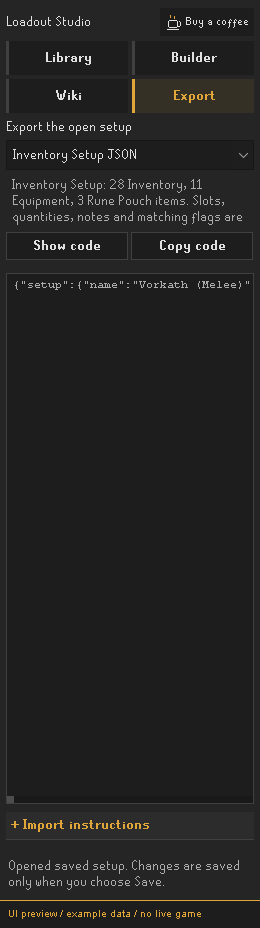
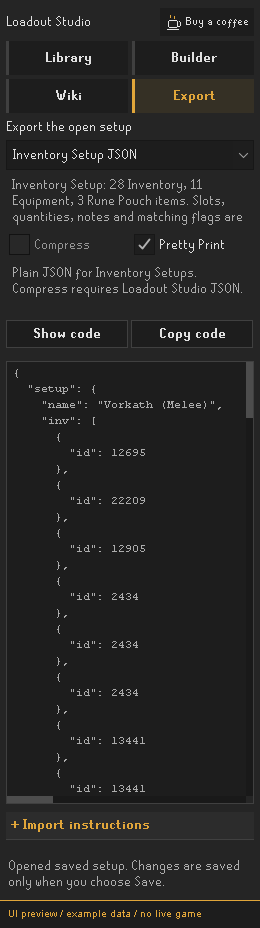
Add compatible pretty JSON and native compressed setup exports

diff --git a/src/main/java/com/loadoutstudio/StudioPanel.java b/src/main/java/com/loadoutstudio/StudioPanel.java
@@ -84,6 +84,7 @@ public final class StudioPanel extends PluginPanel
         default void chooseItem(Consumer<Integer> chosen, Consumer<String> error) { error.accept("Use the running RuneLite client for chatbox Item Search."); }
         default void enterQuantity(String initial, Consumer<String> chosen, Consumer<String> error) { error.accept("Use the running RuneLite client for chatbox quantity input."); }
         default void cancelItemInput() { }
+        default void copyText(String value){java.awt.Toolkit.getDefaultToolkit().getSystemClipboard().setContents(new StringSelection(value),null);}
 		String read(String scope);
 		void save(String scope, String text);
 		void capture(Consumer<JsonObject> success, Consumer<String> error);
@@ -140,7 +141,7 @@ public final class StudioPanel extends PluginPanel
 	private final JTextArea bankStatus = new JTextArea(3, 18);
 	private BankLayouts.Mode editorLayout = BankLayouts.Mode.PRESET;
 	private boolean editorBottom;
-	private final JComboBox<String> section = new JComboBox<>(), format = new JComboBox<>(new String[]{"Inventory Setup JSON", "Bank Tag (RuneLite)", "Bank Tag Layouts"});
+	private final JComboBox<String> section = new JComboBox<>(), format = new JComboBox<>(new String[]{"Inventory Setup JSON", "Bank Tag (RuneLite)", "Bank Tag Layouts", "Loadout Studio JSON"});
 	private final JTextArea notes = new GrowingNotesArea(), code = new JTextArea(9, 18), status = new JTextArea(3, 18);
 	private JButton exportCopy, exportPreview;
 	private final JLabel scopeLabel = text(""), draftLabel = text("No setup open");
@@ -169,6 +170,8 @@ public final class StudioPanel extends PluginPanel
     private JsonObject recovery;
     private final JPanel recoveryControls=vertical(), existingControls=vertical();
     private final JTextArea conversionNotice=info("",3);
+    private final JCheckBox exportCompress=new JCheckBox("Compress"),exportPretty=new JCheckBox("Pretty Print");
+    private final JTextArea exportOptionHint=new CompactStatusArea("");
     private String editingId, scope, session = UUID.randomUUID().toString();
 	private String editorSection;
 	private boolean editorFavorite;
@@ -192,7 +195,7 @@ public final class StudioPanel extends PluginPanel
 			@Override protected Insets getContentBorderInsets(int placement) { return new Insets(0, 0, 0, 0); }
 		});
 		tabs.addTab("Library", libraryTab()); tabs.addTab("Builder", builderTab()); tabs.addTab("Wiki", scroll(wikiTab())); tabs.addTab("Export", exportTab()); add(tabs, BorderLayout.CENTER);
-		JPanel heading = vertical(); JLabel title = text("Loadout Studio"); title.setName("studioTitle"); title.setToolTipText("Loadout Studio 0.8.3-test - character-specific setup library");
+		JPanel heading = vertical(); JLabel title = text("Loadout Studio"); title.setName("studioTitle"); title.setToolTipText("Loadout Studio 0.8.4-test - character-specific setup library");
         JButton coffee = button("Buy a coffee", () -> attempt(host::openSupportPage)); coffeeControl=coffee;coffee.setIcon(new SidebarIcon(SidebarIcon.Kind.COFFEE)); coffee.setName("supportCoffee"); coffee.setToolTipText("Buy a coffee"); coffee.getAccessibleContext().setAccessibleName("Buy a coffee"); coffee.getAccessibleContext().setAccessibleDescription(COFFEE_URL); coffee.setPreferredSize(new Dimension(94, 28));
         JPanel titleBar = new JPanel(new BorderLayout(3, 0)); titleBar.add(title, BorderLayout.CENTER); titleBar.add(coffee, BorderLayout.EAST); heading.add(titleBar);
 		JPanel menu = new JPanel(new GridLayout(2, 2, 4, 4));
@@ -990,25 +993,35 @@ public final class StudioPanel extends PluginPanel
     }
 	private JPanel exportTab()
 	{
-		JPanel p = new JPanel(new BorderLayout(0, 8)), controls = vertical(); controls.add(text("Export the open setup")); controls.add(format);conversionNotice.setName("conversionNotice");controls.add(conversionNotice); exportPreview = button("Show code", this::refreshCode); exportCopy = button("Copy code", () -> attempt(() -> { refreshCodeOrThrow(); getToolkit().getSystemClipboard().setContents(new StringSelection(code.getText()), null); message("Copied " + format.getSelectedItem() + "."); })); controls.add(row(exportPreview, exportCopy));exportFeedback.setName("exportFeedback");exportFeedback.setVisible(false);controls.add(exportFeedback);
+		JPanel p = new JPanel(new BorderLayout(0, 8)), controls = vertical(); controls.add(text("Export the open setup")); controls.add(format);conversionNotice.setName("conversionNotice");controls.add(conversionNotice); format.setName("exportFormat");exportCompress.setName("exportCompress");exportPretty.setName("exportPrettyPrint");controls.add(row(exportCompress,exportPretty));exportOptionHint.setName("exportOptionHint");controls.add(exportOptionHint);updateExportOptions(); exportPreview = button("Show code", this::refreshCode); exportCopy = button("Copy code", () -> attempt(() -> { refreshCodeOrThrow(); host.copyText(code.getText()); message("Copied " + format.getSelectedItem() + "."); })); controls.add(row(exportPreview, exportCopy));exportFeedback.setName("exportFeedback");exportFeedback.setVisible(false);controls.add(exportFeedback);
 		code.setName("exportCode"); code.setEditable(false); code.setLineWrap(false); p.add(controls, BorderLayout.NORTH); p.add(new JScrollPane(code), BorderLayout.CENTER);
 		p.add(disclosure("Import instructions", info("Inventory Setups: import icon > Import setup > Enter setup data. Bank Tags: right-click the Bank + tab > Import tag tab. Bank Tags do not store Equipment slots, quantities, Spellbook or Notes.", 7)), BorderLayout.SOUTH);
-		format.addActionListener(e -> { code.setText(""); if (draft != null) refreshCode(); });
+		format.addActionListener(e -> { updateExportOptions();code.setText(""); if (draft != null) refreshCode(); });
+        exportCompress.addActionListener(e->{updateExportOptions();code.setText("");if(draft!=null)refreshCode();});
+        exportPretty.addActionListener(e->{code.setText("");if(draft!=null)refreshCode();});
 		spellbook.addActionListener(e -> { if (!rendering) { fieldsToDraft(); markDirty(); } }); ignoreAmmo.addActionListener(e -> markDirty()); favorite.addActionListener(e -> { if (!rendering) { editorFavorite = favorite.isSelected(); markDirty(); } }); section.addActionListener(e -> { if (!rendering && section.getSelectedIndex() >= 0 && section.getSelectedIndex() < sectionIds.size()) { editorSection = sectionIds.get(section.getSelectedIndex()); markDirty(); } }); notes.getDocument().addDocumentListener(new DocumentListener() { private void update() { if(!rendering) { fieldsToDraft();markDirty();for(Container ancestor=notes.getParent();ancestor!=null;ancestor=ancestor.getParent()){ancestor.invalidate();if(ancestor==StudioPanel.this)break;}builder.revalidate(); } } public void insertUpdate(DocumentEvent e) {update();} public void removeUpdate(DocumentEvent e) {update();} public void changedUpdate(DocumentEvent e) { } }); return p;
 	}
+    private void updateExportOptions() {
+        int selected=format.getSelectedIndex();boolean studio=selected==3,json=selected==0||studio;
+        exportCompress.setEnabled(studio);exportPretty.setEnabled(json&&!(studio&&exportCompress.isSelected()));
+        exportCompress.setToolTipText(studio?"GZIP + Base64, importable by Loadout Studio only":"Inventory Setups and Bank Tags do not accept GZIP. Select Loadout Studio JSON to compress.");
+        exportPretty.setToolTipText(json?"Indent JSON for easier reading; disabled while compressed":"Bank Tags uses CSV; Pretty Print does not apply.");
+        exportOptionHint.setText(studio?(exportCompress.isSelected()?"Compressed code: import into Loadout Studio only.":"Loadout Studio JSON retains item choices and layout."):selected==0?"Plain JSON for Inventory Setups. Compress requires Loadout Studio JSON.":"Bank Tags uses CSV. JSON formatting and GZIP do not apply.");
+        exportOptionHint.setRows(3);exportOptionHint.setMaximumSize(new Dimension(500,62));
+    }
 	private void refreshCode() { attempt(this::refreshCodeOrThrow); }
 	private void refreshCodeOrThrow()
 	{
-		code.setText(""); if (draft == null) throw new IllegalStateException("Open a setup in the Builder first."); fieldsToDraft(); JsonObject p = draft.deepCopy();conversionNotice.setText(format.getSelectedIndex()==0?ConversionReview.inventory(p):ConversionReview.bank(p));conversionNotice.setRows(format.getSelectedIndex()==0?4:8);conversionNotice.setMaximumSize(new Dimension(500,conversionNotice.getRows()*18+8));conversionNotice.setToolTipText(conversionNotice.getText());
+		code.setText(""); if (draft == null) throw new IllegalStateException("Open a setup in the Builder first."); fieldsToDraft(); JsonObject p = draft.deepCopy();conversionNotice.setText(format.getSelectedIndex()==3?"Loadout Studio: slots, quantities, item choices, Notes and layout are retained. Use Library > Import to open this code.":format.getSelectedIndex()==0?ConversionReview.inventory(p):ConversionReview.bank(p));conversionNotice.setRows(format.getSelectedIndex()==0||format.getSelectedIndex()==3?4:8);conversionNotice.setMaximumSize(new Dimension(500,conversionNotice.getRows()*18+8));conversionNotice.setToolTipText(conversionNotice.getText());
 		if (ignoreAmmo.isSelected()) for (String key : new String[]{"eq", "qv"}) { JsonArray items = SetupCodec.setup(p).getAsJsonArray(key); if (items == null) continue; int start = key.equals("eq") ? 13 : 0; for (int i = start; i < items.size(); i++) if (!items.get(i).isJsonNull()) { items.get(i).getAsJsonObject().remove("q"); items.get(i).getAsJsonObject().remove("sc"); } }
-		code.setText(format.getSelectedIndex() == 0 ? codec.inventory(p) : codec.bank(p, format.getSelectedIndex() == 2)); code.setCaretPosition(0);
+		code.setText(format.getSelectedIndex()==3?codec.studio(p,exportPretty.isSelected(),exportCompress.isSelected()):format.getSelectedIndex()==0?codec.inventory(p,exportPretty.isSelected()):codec.bank(p,format.getSelectedIndex()==2)); code.setCaretPosition(0);
 	}
 	private void importDialog()
 	{
-		JTextArea input = new JTextArea(12, 34); JScrollPane inputPane = new JScrollPane(input); themeForm(inputPane); int action = JOptionPane.showConfirmDialog(this, inputPane, "Paste Inventory Setup JSON, Bank Tag or library backup", JOptionPane.OK_CANCEL_OPTION, JOptionPane.PLAIN_MESSAGE); if (action != JOptionPane.OK_OPTION) return;
+		JTextArea input = new JTextArea(12, 34); JScrollPane inputPane = new JScrollPane(input); themeForm(inputPane); int action = JOptionPane.showConfirmDialog(this, inputPane, "Import setup", JOptionPane.OK_CANCEL_OPTION, JOptionPane.PLAIN_MESSAGE); if (action != JOptionPane.OK_OPTION) return;
 		attempt(() ->
 		{
-			String text = input.getText().trim(); JsonElement parsed = text.startsWith("{") ? codec.parse(text) : null;
+			String text = SetupExportText.unpack(input.getText()); JsonElement parsed = text.startsWith("{") ? codec.parse(text) : null;
 			if (parsed != null && parsed.isJsonObject() && parsed.getAsJsonObject().has("sections") && parsed.getAsJsonObject().has("setups"))
 			{
 				if(parsed.getAsJsonObject().has("libraryBundle")){SetupLibrary incoming=SetupLibrary.read(text,gson);if(JOptionPane.showConfirmDialog(this,"Add "+incoming.setups.size()+" shared setup copies? Existing setups stay intact.","Import shared bundle",JOptionPane.OK_CANCEL_OPTION)!=JOptionPane.OK_OPTION)return;commit(next->LibraryTools.merge(next,incoming,gson));message("Shared setups added as independent copies.");return;}
@@ -1016,7 +1029,7 @@ public final class StudioPanel extends PluginPanel
 				host.save(scope, restored.serialize(gson)); reloadScope(); message("Library backup restored."); return;
 			}
 			List<JsonObject> imported=codec.importText(text);boolean bankImport=!(text.startsWith("{")||text.startsWith("[")) || parsed!=null&&parsed.isJsonObject()&&parsed.getAsJsonObject().has("bankTag");
-            JTextArea review=info("Add "+imported.size()+" setup(s)? Existing saved setups are retained.\n"+ConversionReview.imported(imported.get(0),bankImport?"Bank Tag":"Inventory Setup"),9);
+            JTextArea review=info("Add "+imported.size()+" setup(s)? Existing saved setups are retained.\n"+ConversionReview.imported(imported.get(0),bankImport?"Bank Tag":parsed!=null&&parsed.isJsonObject()&&parsed.getAsJsonObject().has("loadoutStudio")?"Loadout Studio":"Inventory Setup"),9);
             themeForm(review);if(JOptionPane.showConfirmDialog(this,review,"Review import",JOptionPane.OK_CANCEL_OPTION)!=JOptionPane.OK_OPTION)return;
 			commit(l -> { for (JsonObject p : imported){JsonObject copy=p.deepCopy();SetupCodec.setup(copy).addProperty("name",l.uniqueName(SetupCodec.name(copy)));l.setups.add(new SetupLibrary.Entry(copy));} }); message("Imported " + imported.size() + " setup(s). Open them from Library."); renderLibrary();
 		});

diff --git a/src/test/java/com/loadoutstudio/ExportOptionsTest.java b/src/test/java/com/loadoutstudio/ExportOptionsTest.java
@@ -1,0 +1,28 @@
+/* SPDX-License-Identifier: BSD-2-Clause */
+package com.loadoutstudio;
+import com.google.gson.*;
+import java.io.*;
+import java.nio.charset.StandardCharsets;
+import java.util.*;
+import java.util.zip.GZIPOutputStream;
+import javax.swing.*;
+import org.junit.Test;
+import net.runelite.http.api.RuneLiteAPI;
+import static org.junit.Assert.*;
+public class ExportOptionsTest {
+ private final SetupCodec codec=new SetupCodec(RuneLiteAPI.GSON);
+ private static JsonObject setup(){JsonObject p=SetupCodec.blank("Boss – test");JsonObject item=SetupCodec.item(560,15000);item.addProperty("label","Death rune");JsonArray choices=new JsonArray();choices.add("Death rune");item.add("choices",choices);SetupCodec.setup(p).getAsJsonArray("inv").set(3,item);SetupCodec.setup(p).addProperty("notes","Unicode café 🎣\nKeep this note.");SetupCodec.rebuildLayout(p);return p;}
+ private static void rejected(Runnable r){try{r.run();fail("Invalid export text accepted");}catch(IllegalArgumentException expected){assertNotNull(expected.getMessage());}}
+ private static String gzip(byte[] data)throws Exception{ByteArrayOutputStream out=new ByteArrayOutputStream();try(GZIPOutputStream g=new GZIPOutputStream(out)){g.write(data);}return SetupExportText.PREFIX+Base64.getEncoder().encodeToString(out.toByteArray());}
+ @Test public void prettyInventoryChangesOnlyWhitespaceAndKeepsPlainPluginJson(){JsonObject p=setup();String normal=codec.inventory(p),pretty=codec.inventory(p,true);assertFalse(normal.contains("\n"));assertTrue(pretty.contains("\n"));assertEquals(codec.parse(normal),codec.parse(pretty));assertFalse(codec.parse(pretty).getAsJsonObject().has("loadoutStudio"));assertEquals(1,codec.importText(pretty).size());assertEquals(p,setup());}
+ @Test public void compressedNativeRoundTripRetainsLabelsChoicesUnicodeAndLayout(){JsonObject p=setup();String compressed=codec.studio(p,true,true);assertTrue(compressed.startsWith(SetupExportText.PREFIX));assertFalse(compressed.contains("\n"));JsonObject restored=codec.importText(compressed).get(0);assertEquals(1,restored.remove("loadoutStudio").getAsInt());assertEquals(p,restored);assertEquals(codec.studio(p,false,true),compressed);}
+ @Test public void nativePrettyMarkerDoesNotLeakIntoInventoryExports(){String pretty=codec.studio(setup(),true,false);assertTrue(pretty.contains("\n"));JsonObject p=codec.importText(pretty).get(0);assertEquals(1,p.get("loadoutStudio").getAsInt());JsonObject external=codec.parse(codec.inventory(p,true)).getAsJsonObject();assertFalse(external.has("loadoutStudio"));assertFalse(SetupCodec.setup(external).getAsJsonArray("inv").get(3).getAsJsonObject().has("choices"));}
+ @Test public void brokenBase64GzipTruncationAndVersionsAreRejected(){rejected(()->codec.importText("loadoutstudio:gz2:abc"));rejected(()->codec.importText(SetupExportText.PREFIX+"%%%"));rejected(()->codec.importText(SetupExportText.PREFIX+"e30="));String text=codec.studio(setup(),false,true);rejected(()->codec.importText(text.substring(0,text.length()-12)));JsonObject future=setup();future.addProperty("loadoutStudio",2);rejected(()->codec.importText(RuneLiteAPI.GSON.toJson(future)));future.addProperty("loadoutStudio","1");rejected(()->codec.importText(RuneLiteAPI.GSON.toJson(future)));}
+ @Test public void compressedInputStillPassesExistingSchemaAndDepthChecks(){JsonObject bad=setup();SetupCodec.setup(bad).addProperty("fb","true");rejected(()->codec.importText(SetupExportText.compress(RuneLiteAPI.GSON.toJson(bad))));rejected(()->codec.importText(SetupExportText.compress("[".repeat(49)+"]".repeat(49))));}
+ @Test public void expandedLimitAndInvalidUtf8AreRejected()throws Exception{String bomb=gzip(new byte[SetupCodec.MAX_TEXT+1]);rejected(()->codec.importText(bomb));String invalid=gzip(new byte[]{(byte)0xC3,0x28});rejected(()->codec.importText(invalid));rejected(()->SetupExportText.unpack(" ".repeat(SetupCodec.MAX_TEXT+1)));}
+ private static class Host extends PanelTest.FakeHost {String copied;@Override public void copyText(String text){copied=text;}}
+ private static JCheckBox check(StudioPanel p,String name){return (JCheckBox)OwnedGearPanelTest.find(p,name);}private static JComboBox<?> format(StudioPanel p){return (JComboBox<?>)OwnedGearPanelTest.find(p,"exportFormat");}private static String output(StudioPanel p){return ((JTextArea)OwnedGearPanelTest.find(p,"exportCode")).getText();}private static void click(StudioPanel p,String name){OwnedGearPanelTest.click(p,name);}
+ @Test public void inventoryAndNativeCopyUseExactlyTheVisibleSelectedFormatting()throws Exception{SwingUtilities.invokeAndWait(()->{Host h=new Host();StudioPanel p=new StudioPanel(h,RuneLiteAPI.GSON);p.open(new SetupLibrary.Entry(setup()));click(p,"nav:Export");JCheckBox compress=check(p,"exportCompress"),pretty=check(p,"exportPrettyPrint");assertFalse(compress.isEnabled());assertTrue(pretty.isEnabled());pretty.doClick();assertTrue(output(p).contains("\n"));click(p,"Copy code");assertEquals(output(p),h.copied);assertFalse(h.copied.startsWith(SetupExportText.PREFIX));format(p).setSelectedIndex(3);assertTrue(compress.isEnabled());compress.doClick();assertFalse(pretty.isEnabled());assertTrue(output(p).startsWith(SetupExportText.PREFIX));click(p,"Copy code");assertEquals(output(p),h.copied);assertEquals("Boss – test",SetupCodec.name(codec.importText(h.copied).get(0)));compress.doClick();assertTrue(pretty.isEnabled());assertTrue(output(p).contains("\n"));p.dispose();});}
+ @Test public void bankFormatsIgnoreRememberedJsonOptionsAndCopyNativeTagText()throws Exception{SwingUtilities.invokeAndWait(()->{Host h=new Host();StudioPanel p=new StudioPanel(h,RuneLiteAPI.GSON);JsonObject data=setup();p.open(new SetupLibrary.Entry(data));click(p,"nav:Export");format(p).setSelectedIndex(3);check(p,"exportCompress").doClick();for(int i:new int[]{1,2}){format(p).setSelectedIndex(i);assertFalse(check(p,"exportCompress").isEnabled());assertFalse(check(p,"exportPrettyPrint").isEnabled());click(p,"Copy code");assertEquals(codec.bank(data,i==2),h.copied);assertEquals(output(p),h.copied);}format(p).setSelectedIndex(0);assertTrue(check(p,"exportPrettyPrint").isEnabled());assertFalse(output(p).startsWith(SetupExportText.PREFIX));p.dispose();});}
+ @Test public void optionsFitNarrowSidebarAndDefaultExternalOutputIsUnchanged()throws Exception{SwingUtilities.invokeAndWait(()->{for(int width:new int[]{220,260}){Host h=new Host();StudioPanel p=new StudioPanel(h,RuneLiteAPI.GSON);p.open(new SetupLibrary.Entry(setup()));p.setSize(width,900);click(p,"nav:Export");click(p,"Show code");OwnedGearPanelTest.layout(p);OwnedGearPanelTest.layout(p);assertEquals(codec.inventory(setup()),output(p));for(String name:new String[]{"exportCompress","exportPrettyPrint"}){JCheckBox b=check(p,name);assertTrue(b.getWidth()>65);assertTrue(b.getX()+b.getWidth()<=b.getParent().getWidth());}p.dispose();}});}
+}

diff --git a/src/main/java/com/loadoutstudio/SetupExportText.java b/src/main/java/com/loadoutstudio/SetupExportText.java
@@ -1,0 +1,45 @@
+/* SPDX-License-Identifier: BSD-2-Clause */
+package com.loadoutstudio;
+
+import java.io.ByteArrayInputStream;
+import java.io.ByteArrayOutputStream;
+import java.io.IOException;
+import java.nio.ByteBuffer;
+import java.nio.charset.CharacterCodingException;
+import java.nio.charset.StandardCharsets;
+import java.util.Base64;
+import java.util.zip.GZIPInputStream;
+import java.util.zip.GZIPOutputStream;
+
+/** Versioned text transport for Loadout Studio only, never an external-plugin code. */
+final class SetupExportText {
+    static final String PREFIX="loadoutstudio:gz1:";
+    private SetupExportText() { }
+    static String compress(String json) {
+        byte[] data=json.getBytes(StandardCharsets.UTF_8);
+        if(data.length>SetupCodec.MAX_TEXT)throw new IllegalArgumentException("Export exceeds the supported size.");
+        try {
+            ByteArrayOutputStream out=new ByteArrayOutputStream();
+            try(GZIPOutputStream gzip=new GZIPOutputStream(out)){gzip.write(data);}
+            String result=PREFIX+Base64.getEncoder().encodeToString(out.toByteArray());
+            if(result.length()>SetupCodec.MAX_TEXT)throw new IllegalArgumentException("Compressed export exceeds the supported size.");
+            return result;
+        } catch(IOException ex){throw new IllegalArgumentException("Could not compress this setup.",ex);}
+    }
+    static String unpack(String text) {
+        if(text==null||text.length()>SetupCodec.MAX_TEXT)throw new IllegalArgumentException("Import must be smaller than 2 MB.");
+        String value=text.trim();
+        if(!value.startsWith("loadoutstudio:"))return value;
+        if(!value.startsWith(PREFIX))throw new IllegalArgumentException("Unsupported Loadout Studio compressed format.");
+        try {
+            byte[] bytes=Base64.getDecoder().decode(value.substring(PREFIX.length()));
+            ByteArrayOutputStream out=new ByteArrayOutputStream();
+            try(GZIPInputStream gzip=new GZIPInputStream(new ByteArrayInputStream(bytes))){
+                byte[] buffer=new byte[4096];int count;
+                while((count=gzip.read(buffer))!=-1){if(out.size()>SetupCodec.MAX_TEXT-count)throw new IllegalArgumentException("Expanded setup exceeds the 2 MB import limit.");out.write(buffer,0,count);}
+            }
+            return StandardCharsets.UTF_8.newDecoder().decode(ByteBuffer.wrap(out.toByteArray())).toString();
+        } catch(CharacterCodingException ex){throw new IllegalArgumentException("Compressed setup must contain UTF-8 text.",ex);}
+        catch(IOException|IllegalArgumentException ex){if(ex instanceof IllegalArgumentException&&ex.getMessage()!=null&&ex.getMessage().startsWith("Expanded setup"))throw (IllegalArgumentException)ex;throw new IllegalArgumentException("Invalid or damaged compressed Loadout Studio setup.",ex);}
+    }
+}

diff --git a/src/main/java/com/loadoutstudio/SetupCodec.java b/src/main/java/com/loadoutstudio/SetupCodec.java
@@ -95,7 +95,7 @@ public final class SetupCodec
 	public List<JsonObject> importText(String text)
 	{
 		if (text == null || text.length() > MAX_TEXT || text.trim().isEmpty()) throw new IllegalArgumentException("Paste setup JSON or Bank Tag text.");
-		String trimmed = text.trim();
+		String trimmed = SetupExportText.unpack(text);
 		List<JsonObject> result = new ArrayList<>();
 		if (trimmed.startsWith("{") || trimmed.startsWith("["))
 		{
@@ -106,6 +106,7 @@ public final class SetupCodec
 			{
 				if (result.size() >= 100) throw new IllegalArgumentException("Import at most 100 setups at once.");
 				JsonObject p = entry.getAsJsonObject().deepCopy();
+                if(p.has("loadoutStudio") && integer(p.get("loadoutStudio"))!=1)throw new IllegalArgumentException("Unsupported Loadout Studio setup version.");
 				validate(p, true);
 				JsonObject s = setup(p);
 				if (!s.has("rp") || s.get("rp").isJsonNull()) s.add("rp", empty(4));
@@ -192,6 +193,7 @@ public final class SetupCodec
 	{
 		validate(portable, true);
 		JsonObject copy = portable.deepCopy(), s = setup(copy);
+        copy.remove("loadoutStudio");
 		for (String key : Arrays.asList("inv", "eq", "rp", "qv", "bp")) if (s.has(key) && s.get(key).isJsonArray())
 		{
 			for (JsonElement item : s.getAsJsonArray(key)) { if (unlimited(item)) item.getAsJsonObject().addProperty("sc", "None"); cleanItem(item); }
@@ -204,6 +206,15 @@ public final class SetupCodec
 		}
 		return gson.toJson(copy);
 	}
+    public String inventory(JsonObject portable,boolean pretty) {
+        String json=inventory(portable);
+        return pretty?gson.newBuilder().setPrettyPrinting().create().toJson(parse(json)):json;
+    }
+    public String studio(JsonObject portable,boolean pretty,boolean compressed) {
+        validate(portable,true);JsonObject copy=portable.deepCopy();copy.addProperty("loadoutStudio",1);
+        String json=(pretty&&!compressed?gson.newBuilder().setPrettyPrinting().create():gson).toJson(copy);
+        return compressed?SetupExportText.compress(json):json;
+    }
 	private static void cleanItem(JsonElement e) { if (e != null && e.isJsonObject()) { e.getAsJsonObject().remove("label"); e.getAsJsonObject().remove("choices"); if (quantity(e) == 1) e.getAsJsonObject().remove("q"); } }
 
 	public static void rebuildLayout(JsonObject p)

diff --git a/src/main/java/com/loadoutstudio/WikiClient.java b/src/main/java/com/loadoutstudio/WikiClient.java
@@ -33,7 +33,7 @@ public final class WikiClient
     private long nextRequest, cooldown;
     private boolean busy;
     private volatile boolean closed;
-    private static final String USER_AGENT="LoadoutStudio/0.8.3 (https://github.com/Pa5cal1/runelite-loadout-studio; RuneLite)";
+    private static final String USER_AGENT="LoadoutStudio/0.8.4 (https://github.com/Pa5cal1/runelite-loadout-studio; RuneLite)";
     interface Store
     {
         String load() throws IOException;

diff --git a/README.md b/README.md
@@ -2,7 +2,7 @@
 
 Create and organise gear setups for Old School RuneScape. Find loadouts on the OSRS Wiki, edit your Inventory and Equipment, and use your setups with Bank Tags or Inventory Setups.
 
-**Current version: 0.8.3-test.** Loadout Studio is a local test plugin and is not yet available through the RuneLite Plugin Hub. Docker is not required to run the plugin or the Java/Gradle test client.
+**Current version: 0.8.4-test.** Loadout Studio is a local test plugin and is not yet available through the RuneLite Plugin Hub. Docker is not required to run the plugin or the Java/Gradle test client.
 
 Loadout Studio works without the Inventory Setups and standalone Bank Tag Layouts hub plugins. It owns its library, editor, comparison and codecs. Bank filtering also works with built-in **Bank Tags** disabled. When it is active, Loadout Studio can use its native layout service; otherwise it uses an independent view of the ordinary Bank's real widgets. Actual Bank stock counts and item child indices are preserved. Optional imports create independent copies.
 
@@ -12,7 +12,7 @@ Offline renders of the actual sidebar using RuneLite styling and example loadout
 
 ![Library, Builder, Wiki and Export previews](docs/screenshots/overview.png)
 
-[Library](docs/screenshots/library.png) · [Builder](docs/screenshots/builder.png) · [Equipment and Notes](docs/screenshots/builder-details.png) · [Owned alternatives](docs/screenshots/alternatives.png) · [Wiki choices](docs/screenshots/wiki.png) · [Export](docs/screenshots/export.png)
+[Library](docs/screenshots/library.png) · [Builder](docs/screenshots/builder.png) · [Equipment and Notes](docs/screenshots/builder-details.png) · [Owned alternatives](docs/screenshots/alternatives.png) · [Wiki choices](docs/screenshots/wiki.png) · [Export](docs/screenshots/export.png) · [Compressed export](docs/screenshots/export-compressed.png)
 
 ## Contents
 
@@ -205,6 +205,10 @@ Matching rules can differ between receiving plugins, particularly for custom Fuz
 
 ## Importing and Exporting
 
+**Pretty Print** indents Inventory Setup JSON or Loadout Studio JSON for reading. **Compress** uses GZIP + Base64 and is available only with **Loadout Studio JSON**. Compressed codes start with `loadoutstudio:gz1:` and can be pasted into **Library → Import** in Loadout Studio. Pretty Print is disabled while compression is active. Preview and Copy code use the same selected representation.
+
+Inventory Setups expects plain JSON, and Bank Tags expects its native CSV text. Those external-plugin exports are never GZIP-wrapped; unsupported checkboxes are disabled. The normal compact Inventory Setup output stays the default. Native Loadout Studio JSON preserves item labels and source choices as well as slots, quantities, Notes and layout. Exports still require resolved items and required quantities.
+
 ### From Other Plugins
 
 In Library, click **Import setup → From installed plugins**. Select the setups you want, review them, then choose **Save copies**. **Open copy** opens one as an editable draft.
@@ -277,6 +281,13 @@ Automated tests cover data formats, item matching, layouts, caching and sidebar 
 </details>
 
 ## Changelog
+
+### 0.8.4-test
+
+- Add Compress and Pretty Print controls to Export, with explicit format compatibility.
+- Add native Loadout Studio JSON and versioned GZIP/Base64 codes that round-trip through Import; preserve external-plugin output formats.
+- Bound expanded imports to 2 MB and reject malformed compression, unsupported versions and invalid UTF-8 before schema checks.
+- Verify Copy code against the visible preview for each format and update the screenshot gallery.
 
 ### 0.8.3-test
 

diff --git a/docs/VALIDATION.md b/docs/VALIDATION.md
@@ -1,4 +1,12 @@
-# Current validation — 0.8.3-test
+# Current validation — 0.8.4-test
+
+- Native Java 11 test/jar/shadowJar: 179 tests, zero failures/errors/skipped. Nine new tests cover pretty/plain JSON equality, native compressed round-trip with Unicode/labels/choices/layout, native marker removal in Inventory Setups exports, corrupt/truncated payloads and future versions, schema/depth checks, decompressed limits/UTF-8, preview-copy equality, external tag preservation and narrow control alignment.
+- Import compatibility was checked against [Inventory Setups importSetup](https://github.com/dillydill123/inventory-setups/blob/master/src/main/java/inventorysetups/InventorySetupsPlugin.java) (plain Gson JSON) and [RuneLite Bank Tags importTag](https://github.com/runelite/runelite/blob/master/runelite-client/src/main/java/net/runelite/client/plugins/banktags/tabs/TabInterface.java) (CSV iterator). Neither decodes GZIP. Compression is deliberately limited to Loadout Studio JSON; Pretty Print is offered only for JSON formats.
+- [Watchdog's ImportExportDialog](https://github.com/adamk33n3r/runelite-watchdog/blob/3360e0a60335ef8eceeef6cd9de58d222e9dc450/src/main/java/com/adamk33n3r/runelite/watchdog/ui/ImportExportDialog.java) was inspected for its GZIP + Base64 behavior and disabled Pretty Print control while compressed. Loadout Studio implements its own small versioned text transport with explicit input/expanded size checks; it does not import Watchdog alerts.
+- Copy uses a fake-host clipboard seam in automated tests to confirm its exact text equals the preview. No game input or actual clipboard changes are needed for those tests. Current Export screenshots were regenerated with example data, including a compressed native preview.
+- Manually test Copy/Import in the test client for native codes, plain/pretty Inventory Setup JSON, and both Bank Tag formats. Verify disabling compression restores readable JSON and changing format never produces an incompatible external code.
+
+# Previous validation — 0.8.3-test
 
 - Native Java 11 test/jar/shadowJar: 170 tests, zero failures/errors/skipped. Three added regressions cover custom-position preservation and Undo, preserving an old item still used in another slot, and missing-item names absent from the local Bank observation.
 - Seven documentation PNGs render the actual sidebar with RuneLiteLAF and example data: Library, Builder, Equipment/Notes, alternatives, Wiki, Export and overview. Screens were visually inspected. A separate local-only renderer uses prepared sprite inputs; it is not shipped or counted among the 170 tests.

diff --git a/docs/wiki-network-policy.md b/docs/wiki-network-policy.md
@@ -1,4 +1,4 @@
-# Wiki request policy — 0.8.3-test
+# Wiki request policy — 0.8.4-test
 
 Requests start only after explicit Search/Enter, page selection, URL entry or reload. Startup, opening saved loadouts, typing and background time do not fetch Wiki content. Typing may read local cached suggestions on a worker; it never performs HTTP. Item sprites come from RuneLite ItemManager; no Wiki image service is called.
 
@@ -10,7 +10,7 @@ Search responses are fresh for six hours. Page sources are normally fresh for se
 
 Page resolution may require several bounded API calls. The same public Wiki cache can be reused across characters; it contains public source responses and user-entered Wiki search queries, never gear, account data or credentials. Write failures are visible and leave normal in-session usage available.
 
-HTTP 429/503, Retry-After and API errors trigger a cooldown (at least sixty seconds, up to 24 hours when requested). Queued work is failed visibly; there is no automatic retry. Requests advertise LoadoutStudio/0.8.3 and the source repository, set maxlag=5 and cache hints, use 25-second timeouts, bound response sizes and cancel on shutdown.
+HTTP 429/503, Retry-After and API errors trigger a cooldown (at least sixty seconds, up to 24 hours when requested). Queued work is failed visibly; there is no automatic retry. Requests advertise LoadoutStudio/0.8.4 and the source repository, set maxlag=5 and cache hints, use 25-second timeouts, bound response sizes and cancel on shutdown.
 
 These limits are conservative project choices, not published OSRS quotas. Wikimedia quotas must not be presented as OSRS Wiki quotas. The supplied Reddit thread is community discussion; it does not establish a general ban on user-triggered Wiki use or verify a particular plugin shutdown.
 

diff --git a/docs/local-acceptance.md b/docs/local-acceptance.md
@@ -1,4 +1,4 @@
-# Testclient acceptance — 0.8.3-test
+# Testclient acceptance — 0.8.4-test
 
 Status: **pending user acceptance**. Automated tests and offline previews are separate from live RuneLite behavior. Only the user performs game interactions. Record RuneLite version, plugin version, Windows display scaling, test date and any active Bank-related plugins. Start with a library backup and disposable test setups.
 
@@ -57,3 +57,7 @@ Open a fresh Wiki draft from the cached Aquanites source, not an older saved cop
 ## Custom alternatives after the workflow review
 
 In a custom Bank layout, replace a missing item with an observed alternative. If no other slot still requires the old item, the replacement should occupy the old custom positions; Undo restores the original layout. If another slot still requires the old item, its positions remain and the new item is added. Save/reopen to check persistence. A missing item should have its known name above the alternatives selector, even when absent from the Bank observation.
+
+## Export formatting and native compressed codes
+
+In Export, select Inventory Setup JSON and toggle Pretty Print: only whitespace changes, and Copy must equal the preview. Compress is disabled for this target. Select Loadout Studio JSON and enable Compress: Pretty Print is disabled, a loadoutstudio:gz1: code appears and can be pasted back into this plugin's Import. Check names, Unicode Notes, source choices, quantities and custom positions. Disable Compress to restore JSON. With either Bank Tag target both options are disabled and the code must retain the normal banktags or banktaglayoutsplugin prefix. Malformed/truncated/oversized compressed imports must leave the saved library unchanged.

diff --git a/docs/sidebar-system-design.md b/docs/sidebar-system-design.md
@@ -127,3 +127,7 @@ The primary path remains Library/Wiki → Builder → review local gear differen
 The alternatives heading prefers a stored item label over a generic numeric ID when the missing item is absent from the Bank observation. General settings stay in RuneLite configuration. Sections, actions and Wiki preset cards remain visually distinct. Source conditions and equipment combinations still require player review; the plugin does not evaluate combat optimality or withdraw/equip items automatically.
 
 The README gallery intentionally uses offline, labeled UI previews with example data. It demonstrates sidebar presentation, not live Bank correctness. The in-game resize report, Windows drag visuals, native chat focus and independent Bank transitions remain pending player confirmation.
+
+## Export formatting in 0.8.4
+
+Export has two in-panel representation controls. Pretty Print applies to Inventory Setup JSON and native Loadout Studio JSON. GZIP/Base64 compression applies only to native JSON because receiving external plugins do not decode it. Loadout Studio's compressed transport has a versioned prefix, bounded encoded and expanded sizes, strict UTF-8 decoding and the existing schema/nesting validation. Native JSON includes a version marker and preserves labels/choices; external Inventory Setups output removes that marker and editor metadata. Preview and Copy pass through the same export path; checkbox changes do not modify saved loadouts. Bank Tag text remains CSV in both supported dialects.

diff --git a/docs/ASSETS.md b/docs/ASSETS.md
@@ -14,6 +14,6 @@ GearContainers bundles the bolt-type-to-Item-ID mapping from Inventory Setups Bo
 
 ## Documentation screenshots
 
-The seven PNGs in docs/screenshots are offline renders of the actual Loadout Studio Swing sidebar with RuneLiteLAF and explicit example data. They are labeled UI previews, not live game screenshots. They contain no player-specific state.
+The eight PNGs in docs/screenshots are offline renders of the actual Loadout Studio Swing sidebar with RuneLiteLAF and explicit example data. They are labeled UI previews, not live game screenshots. They contain no player-specific state.
 
 Item artwork is copyright Jagex. The small sprite inputs were obtained once for documentation preparation from RuneLite's static item-icon service, for example https://static.runelite.net/cache/item/icon/12931.png. They were reused locally to render the previews. Individual input sprites and the local renderer are not bundled into the plugin. Runtime sprites continue to use RuneLite ItemManager; these screenshots add no Wiki or image requests to the plugin. The project license does not transfer ownership of RuneScape artwork.
